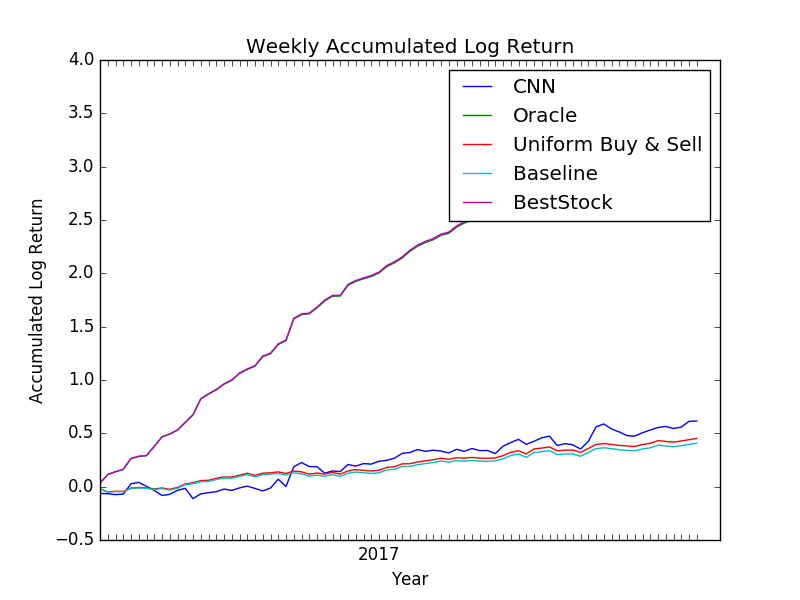
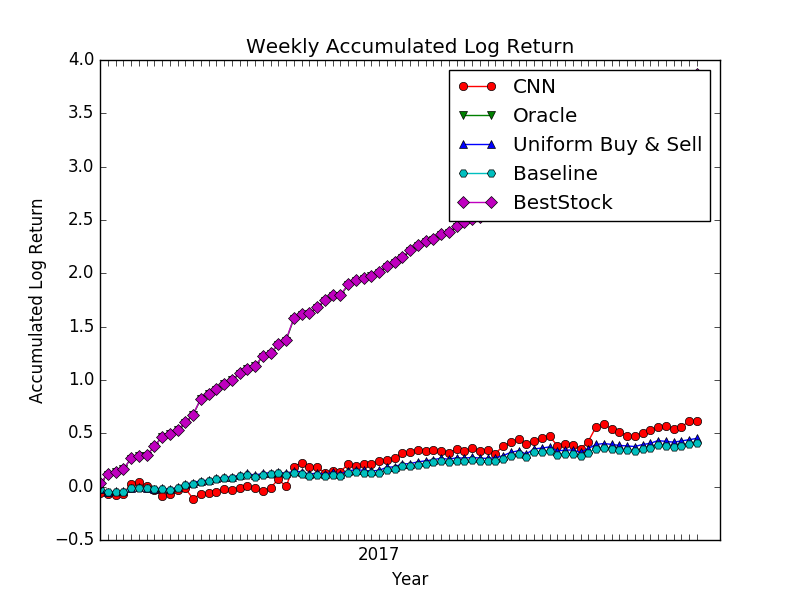
12.4 morning

diff --git a/utils/plotAndEval.py b/utils/plotAndEval.py
@@ -53,9 +53,12 @@ class plotEval:
 		x = xrange(len(self.date))
 		# Do the plotting
 		# Plot weekly return
+		style = ['ro-', 'gv-', 'b^-', 'cH-', 'mD-', 'kh-', 'yp-']
 		legend_1 = []
+		style_i = 0
 		for label in self.returns.keys():
-			plt.plot(x,self.returns[label],'-')
+			plt.plot(x,self.returns[label],style[style_i])
+			style_i += 1
 			legend_1.append(label)
 
 		plt.xticks(x, dateLabel)
@@ -68,9 +71,11 @@ class plotEval:
 
 		# plot (log) accumulated return
 		legend_2 = []
+		style_i = 0
 		for label in self.returns.keys():
 			accumReturn = accum(self.returns[label])
-			plt.plot(x,accumReturn,'-')
+			plt.plot(x,accumReturn,style[style_i])
+			style_i += 1
 			legend_2.append(label)
 
 		plt.xticks(x, dateLabel)
